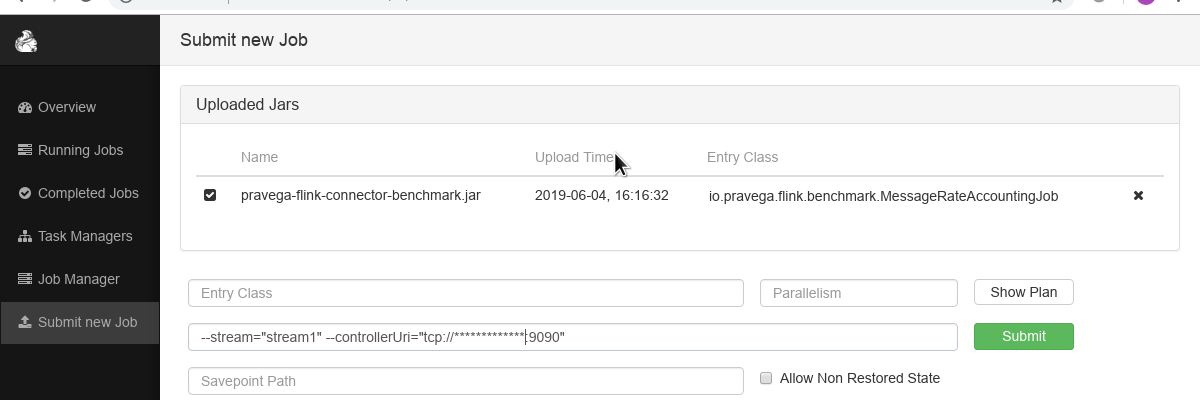
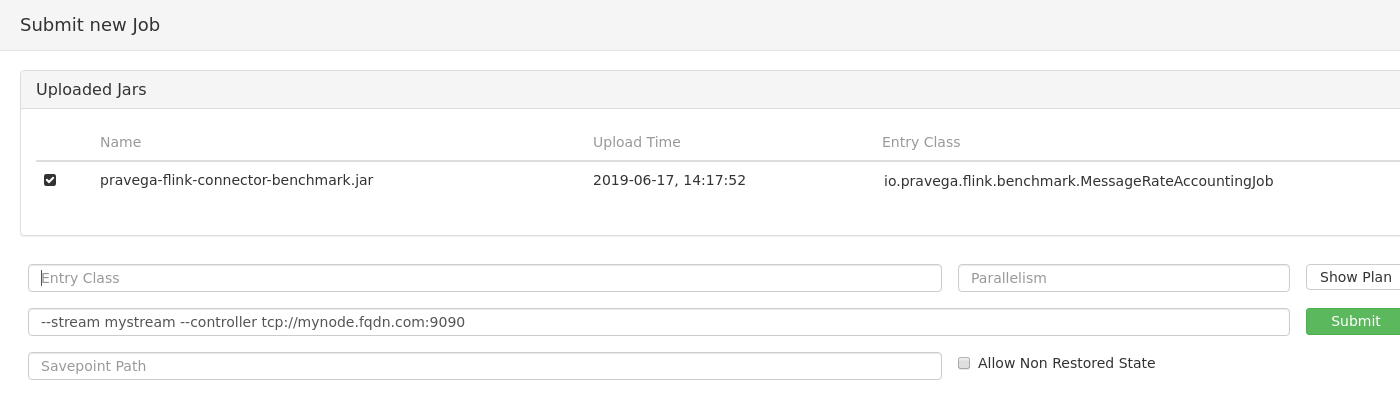
fixes

diff --git a/README.md b/README.md
@@ -41,7 +41,7 @@ Pravega Flink Connector Benchmark
     Accounts the specified event stream consuming rate (evt/s), reports the rate every 1 sec.
 
     Parameters (w/ default values):
-    * `--scope="scope0"`
-    * `--stream="stream0"`
-    * `--controllerUri="tcp://127.0.0.1:9090"`
-    * `--storage-driver-event-timeoutMillis="100"`
+    * `--scope scope0`
+    * `--stream stream0`
+    * `--controllerUri tcp://127.0.0.1:9090`
+    * `--storage-driver-event-timeoutMillis 100`
